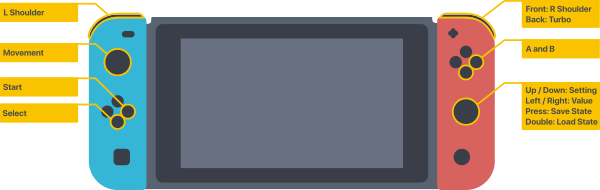
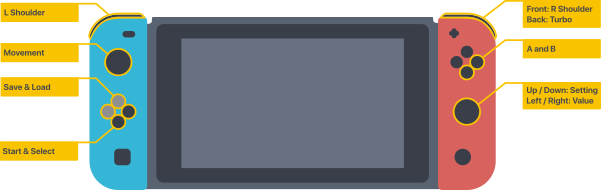
Update Readme

diff --git a/README.md b/README.md
@@ -5,7 +5,7 @@
 Homebrewing / Hacking a switch is too much of a dangerous affair for me personally and after learning there is a browser I tried to get it running in there. Turns out it is (sort of) possible.
 
 <details>
-  <summary>Preview (UI is changed now)</summary>
+  <summary>Preview (Old UI but still relevant)</summary>
   <img width="500" src="showcase/video_smaller.gif" />
   <p float="left">
   <img width="250" src="showcase/game.jpg" />
@@ -36,22 +36,16 @@ Thanks to the Gamepad API I was able to remove most of the onscreen buttons and 
 
 <img width="600" src="showcase/controls.png" />
 
+Since v1.0.2 custom layouts are also supported. Just click the cogs at the top of the screen during rom selection to open the options menu. The left side shows the GBA key and the right side shows the currently assigned Switch key.
 <details>
-  <summary>In Text</summary>
-  <ul>
-    <li>A / B as usual</li>
-    <li>Left stick for movement</li>
-    <li>DPad right for start</li>
-    <li>DPad down for select</li>
-    <li>Front shoulder buttons for L / R</li>
-    <li>Back right shoulder button for turbo mode while pressed</li>
-    <li>Right stick up / down for selecting values</li>
-    <li>Right stick left / right for selecting values</li>
-    <li>Right stick press for save</li>
-    <li>Right stick double press for load</li>
+  <summary>Developer info</summary>
+  The current layout file is found at `src/backend/layout.json`. A default configuration is always saved at `src/backend/layout.backup.json`, which is also used for the reset.
 </details>
 
-------
+<img width="600" src="showcase/custom.png" />
+
+
+---
 ## Usage
 
 The emulator in it's entirety is ready to be pulled as a docker image. It runs on and exposes port `8888` by default.
@@ -80,6 +74,10 @@ docker run -d -v $(pwd)/roms:/home/roms/ --name switch-gba -p 8888:8888 bfriedri
 
 ---
 ## Versions
+
+## 1.0.2
+* Added custom button layouts
+* Code restructuring
 
 ## 1.0.1
 * Add fix for content size warning after alerts are open for too long
